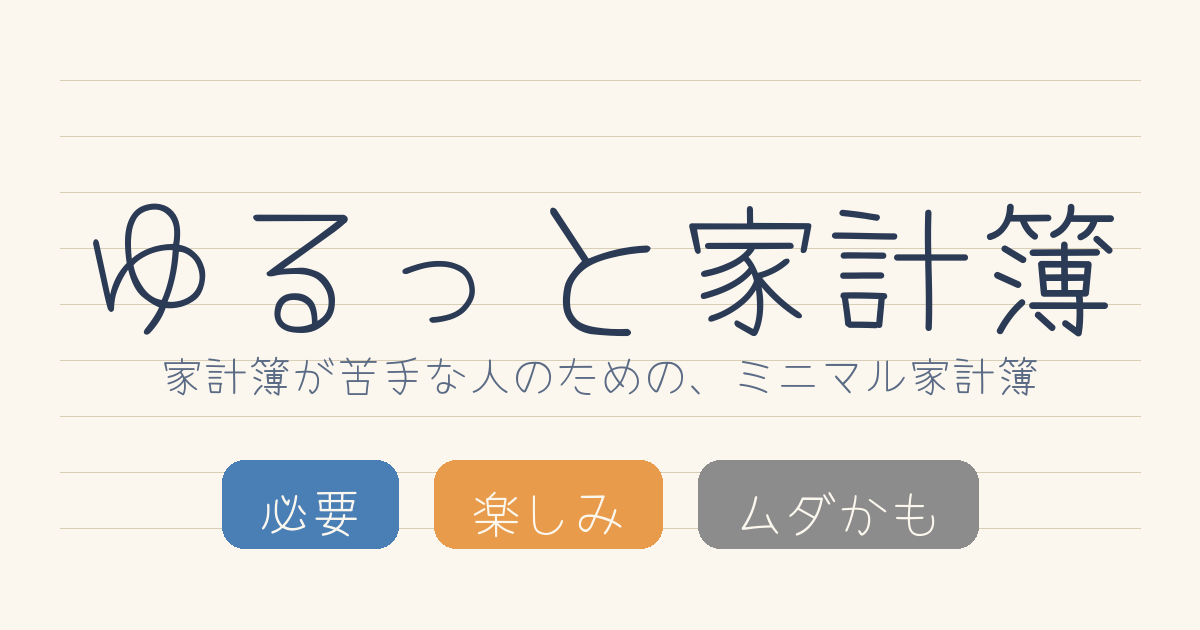
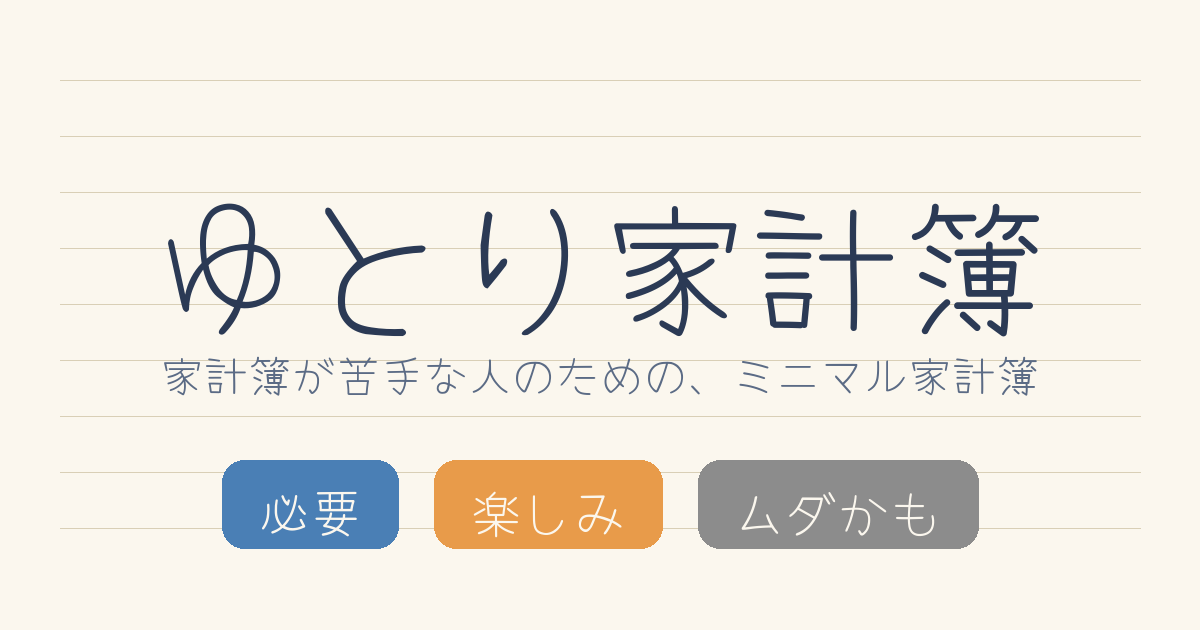
Rename app from ゆるっと家計簿 to ゆとり家計簿
The "ゆるっと家計簿" name turned out to be already taken in the
wild, so the app is renamed to ゆとり家計簿 — keeping the ゆ-rooted
identity that the icon centers on, and leaning into the ゆとり
("breathing room") connotation that fits the philosophy: don't
manage tightly, leave yourself slack.

Touched everywhere the old name appeared:
- index.html (title, OGP/Twitter, apple-mobile-web-app-title, h1)
- manifest.json (name, short_name)
- capacitor.config.json (appName)
- android/app/src/main/res/values/strings.xml (app_name,
  title_activity_main)
- README.md
- ogp.png regenerated with the new title

The Android applicationId / package_name / custom_url_scheme
(com.tmk4men.yuruttokakeibo) and the GitHub repo / Pages URL are
left as-is so the pre-distribution change has no migration cost.

Bumped to v13.

Changed region(s): [[0.4317, 0.3317, 0.925, 0.5429], [0.0617, 0.3016, 0.4317, 0.5429]]

diff --git a/index.html b/index.html
@@ -6,34 +6,34 @@
   <meta name="theme-color" content="#fbf7ee" />
   <meta http-equiv="Cache-Control" content="no-cache, must-revalidate" />
   <meta http-equiv="Pragma" content="no-cache" />
-  <title>ゆるっと家計簿</title>
-  <meta name="description" content="家計簿が苦手な人のための、ミニマル家計簿。「必要・楽しみ・ムダかも」の3タグだけでゆるっと続く。" />
+  <title>ゆとり家計簿</title>
+  <meta name="description" content="家計簿が苦手な人のための、ミニマル家計簿。「必要・楽しみ・ムダかも」の3タグだけでゆとりを持って続く。" />
 
   <link rel="manifest" href="manifest.json" />
   <link rel="apple-touch-icon" href="apple-touch-icon.png" />
   <link rel="icon" type="image/png" sizes="192x192" href="icon-192.png" />
   <meta name="apple-mobile-web-app-capable" content="yes" />
   <meta name="apple-mobile-web-app-status-bar-style" content="default" />
-  <meta name="apple-mobile-web-app-title" content="ゆるっと家計簿" />
+  <meta name="apple-mobile-web-app-title" content="ゆとり家計簿" />
 
-  <meta property="og:title" content="ゆるっと家計簿" />
-  <meta property="og:description" content="家計簿が苦手な人のための、ミニマル家計簿。「必要・楽しみ・ムダかも」の3タグだけでゆるっと続く。" />
+  <meta property="og:title" content="ゆとり家計簿" />
+  <meta property="og:description" content="家計簿が苦手な人のための、ミニマル家計簿。「必要・楽しみ・ムダかも」の3タグだけでゆとりを持って続く。" />
   <meta property="og:type" content="website" />
   <meta property="og:url" content="https://tmk4men.github.io/yurutto-kakeibo/" />
-  <meta property="og:site_name" content="ゆるっと家計簿" />
+  <meta property="og:site_name" content="ゆとり家計簿" />
   <meta property="og:locale" content="ja_JP" />
   <meta property="og:image" content="https://tmk4men.github.io/yurutto-kakeibo/ogp.png" />
   <meta property="og:image:width" content="1200" />
   <meta property="og:image:height" content="630" />
   <meta name="twitter:card" content="summary_large_image" />
-  <meta name="twitter:title" content="ゆるっと家計簿" />
+  <meta name="twitter:title" content="ゆとり家計簿" />
   <meta name="twitter:description" content="家計簿が苦手な人のための、ミニマル家計簿。" />
   <meta name="twitter:image" content="https://tmk4men.github.io/yurutto-kakeibo/ogp.png" />
 
   <link rel="preconnect" href="https://fonts.googleapis.com" />
   <link rel="preconnect" href="https://fonts.gstatic.com" crossorigin />
   <link href="https://fonts.googleapis.com/css2?family=Yomogi&family=Klee+One:wght@400;600&display=swap" rel="stylesheet" />
-  <link rel="stylesheet" href="style.css?v=12" />
+  <link rel="stylesheet" href="style.css?v=13" />
 
   <!-- パスワード設定済みなら CSS で本体を即非表示にして覗き見防止 -->
   <script>
@@ -47,7 +47,7 @@
 <body>
   <main class="page">
     <header class="topbar">
-      <h1 class="title">ゆるっと家計簿</h1>
+      <h1 class="title">ゆとり家計簿</h1>
       <button type="button" id="helpBtn" class="help-btn" aria-label="メニュー">
         <span class="help-btn__bar"></span>
         <span class="help-btn__bar"></span>
@@ -229,6 +229,6 @@
     </div>
   </div>
 
-  <script src="app.js?v=12"></script>
+  <script src="app.js?v=13"></script>
 </body>
 </html>

diff --git a/sw.js b/sw.js
@@ -1,13 +1,13 @@
 // Service Worker — yurutto-kakeibo
 // Cache name のバージョンを上げると古いキャッシュは破棄される。
 // アセットを変更したらこの定数を上げる (例: yurutto-v4 → yurutto-v5)
-const CACHE = 'yurutto-v12';
+const CACHE = 'yurutto-v13';
 
 const ASSETS = [
   './',
   './index.html',
-  './style.css?v=12',
-  './app.js?v=12',
+  './style.css?v=13',
+  './app.js?v=13',
   './manifest.json',
   './icon-192.png',
   './icon-512.png',

diff --git a/README.md b/README.md
@@ -1,4 +1,4 @@
-# ゆるっと家計簿
+# ゆとり家計簿
 
 家計簿が苦手な人のための、ミニマル家計簿。「必要・楽しみ・ムダかも」の3タグで記録し、月の上限・吹き出しメッセージ・PWAでホーム画面追加にも対応。
 
@@ -45,6 +45,6 @@ npm run copy-web && npx cap sync android
 ## アプリ ID
 
 - App ID: `com.tmk4men.yuruttokakeibo`
-- App Name: `ゆるっと家計簿`
+- App Name: `ゆとり家計簿`
 
 変更したい場合は `capacitor.config.json` と `android/app/src/main/AndroidManifest.xml` 周辺を編集。
